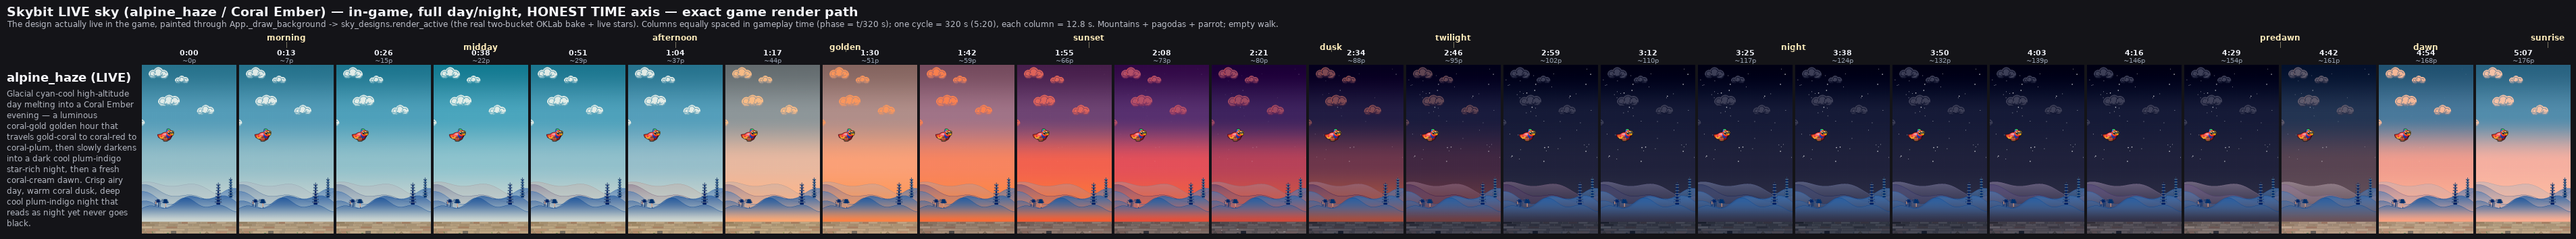
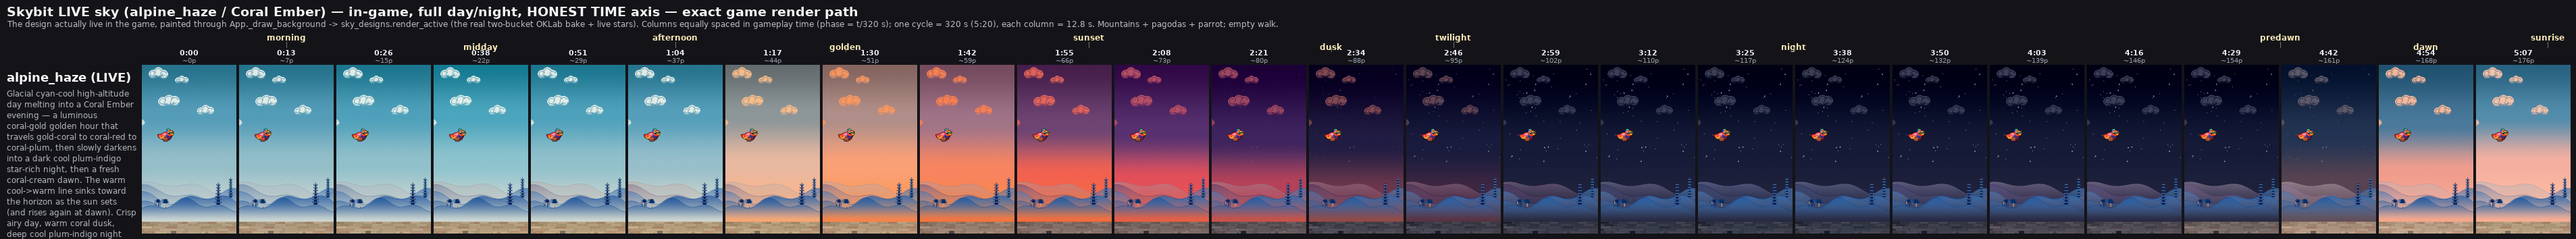
Ship descending sunset threshold (Rate 3) on the live Coral Ember sky
Adds optional time-of-day descent to the sky bake: SkyParams.descent_drop eases
the interior stop positions downward across the evening (and back at dawn) via an
evening-progress envelope, so the cool->warm line sinks toward the horizon as the
sun sets instead of sitting at a fixed height. Default 0.0 leaves every other
biome byte-identical. alpine_haze (live Coral Ember) takes drop=0.20 (the chosen
Rate 3). Pure-Python, pygbag-safe, cached per phase bucket — no per-frame cost,
no timestep change. Live filmstrip re-rendered.

https://claude.ai/code/session_01CRpXqwNabjP68zth1yyiuT

Changed region(s): [[0.3744, 0.5282, 0.5928, 0.839], [0.8736, 0.5282, 0.9672, 0.6836], [0.0, 0.7458, 0.0624, 0.9944]]

diff --git a/game/biome_sky.py b/game/biome_sky.py
@@ -83,6 +83,13 @@ class SkyParams:
     positions: tuple = (0.0, 0.30, 0.62, 0.85, 1.0)
     dither_amp: float = 2.0
     zenith_dark: float = 0.06
+    # Time-of-day descent of the warm band: a real sunset's cool->warm line sinks
+    # toward the horizon as the sun drops. `descent_drop` is the max downward
+    # translation of the interior stops, eased in across the evening and back out
+    # at dawn (0 = the classic static placement, every other biome). The anchors
+    # are the (golden, deep-night, dawn-start, dawn-end) phases shaping the ease.
+    descent_drop: float = 0.0
+    descent_anchors: tuple = (0.235, 0.56, 0.82, 0.97)
 
 
 @dataclass
@@ -104,9 +111,31 @@ class BiomeSpec:
 
 # ── the sky painter ───────────────────────────────────────────────────────────
 
-def _sky_stops(spec, pal):
+def _smoothstep(t):
+    t = 0.0 if t < 0.0 else 1.0 if t > 1.0 else t
+    return t * t * (3 - 2 * t)
+
+
+def _evening_progress(phase, anchors):
+    """0 in daylight, eased to 1 across the evening, held through the dark night,
+    eased back to 0 across dawn — the shape the warm band's descent follows so it
+    starts at its day height, sinks as the sun sets, and rises again at sunrise."""
+    golden, night, dawn0, dawn1 = anchors
+    p = phase % 1.0
+    if p <= golden or p >= dawn1:
+        return 0.0
+    if p < night:
+        return _smoothstep((p - golden) / (night - golden))
+    if p <= dawn0:
+        return 1.0
+    return _smoothstep(1.0 - (p - dawn0) / (dawn1 - dawn0))
+
+
+def _sky_stops(spec, pal, phase=None):
     """The 5 positional OKLab stops for a biome's sky at one stage — a deepened
-    zenith over the palette's sky_top/mid/bot/horizon."""
+    zenith over the palette's sky_top/mid/bot/horizon. When the biome sets
+    `descent_drop` and a `phase` is supplied, the interior stops translate down
+    with the evening so the warm sunset band sinks toward the horizon over time."""
     sky_top = pal.get('sky_top', (40, 110, 200))
     cols = [
         sf.with_value(sky_top, -spec.sky.zenith_dark),
@@ -115,7 +144,12 @@ def _sky_stops(spec, pal):
         pal.get('sky_bot', (200, 220, 240)),
         pal.get('horizon', (245, 235, 215)),
     ]
-    return list(zip(spec.sky.positions, cols))
+    positions = spec.sky.positions
+    if phase is not None and spec.sky.descent_drop:
+        delta = _evening_progress(phase, spec.sky.descent_anchors) * spec.sky.descent_drop
+        z, top, mid, bot, hz = positions
+        positions = (z, top + delta, mid + delta, min(bot + delta, 0.985), hz)
+    return list(zip(positions, cols))
 
 
 def paint_sky(surf, spec, w, h, phase, stars=False, ground_y=None):
@@ -125,7 +159,7 @@ def paint_sky(surf, spec, w, h, phase, stars=False, ground_y=None):
     `ground_y` so the upper-band layout matches), gated on the stage's
     `star_alpha`."""
     pal = spec.palette_for_phase(phase)
-    stops = _sky_stops(spec, pal)
+    stops = _sky_stops(spec, pal, phase)
     surf.blit(sf.make_sky_field(w, h, stops, dither_amp=spec.sky.dither_amp), (0, 0))
     if stars:
         sa = int(pal.get('star_alpha', 0))

diff --git a/game/biome_sky_keyframes.py b/game/biome_sky_keyframes.py
@@ -246,9 +246,9 @@ _ALPINE_HAZE_KF = [
 
 ALPINE_HAZE = BiomeSpec(
     name='Alpine Haze',
-    note='Glacial cyan-cool high-altitude day melting into a Coral Ember evening — a luminous coral-gold golden hour that travels gold-coral to coral-red to coral-plum, then slowly darkens into a dark cool plum-indigo star-rich night, then a fresh coral-cream dawn. Crisp airy day, warm coral dusk, deep cool plum-indigo night that reads as night yet never goes black.',
+    note='Glacial cyan-cool high-altitude day melting into a Coral Ember evening — a luminous coral-gold golden hour that travels gold-coral to coral-red to coral-plum, then slowly darkens into a dark cool plum-indigo star-rich night, then a fresh coral-cream dawn. The warm cool->warm line sinks toward the horizon as the sun sets (and rises again at dawn). Crisp airy day, warm coral dusk, deep cool plum-indigo night that reads as night yet never goes black.',
     keyframes=_ALPINE_HAZE_KF,
-    sky=SkyParams(positions=(0.0, 0.30, 0.58, 0.82, 1.0), dither_amp=1.8, zenith_dark=0.14),
+    sky=SkyParams(positions=(0.0, 0.30, 0.58, 0.82, 1.0), dither_amp=1.8, zenith_dark=0.14, descent_drop=0.20),
 )
 
 
